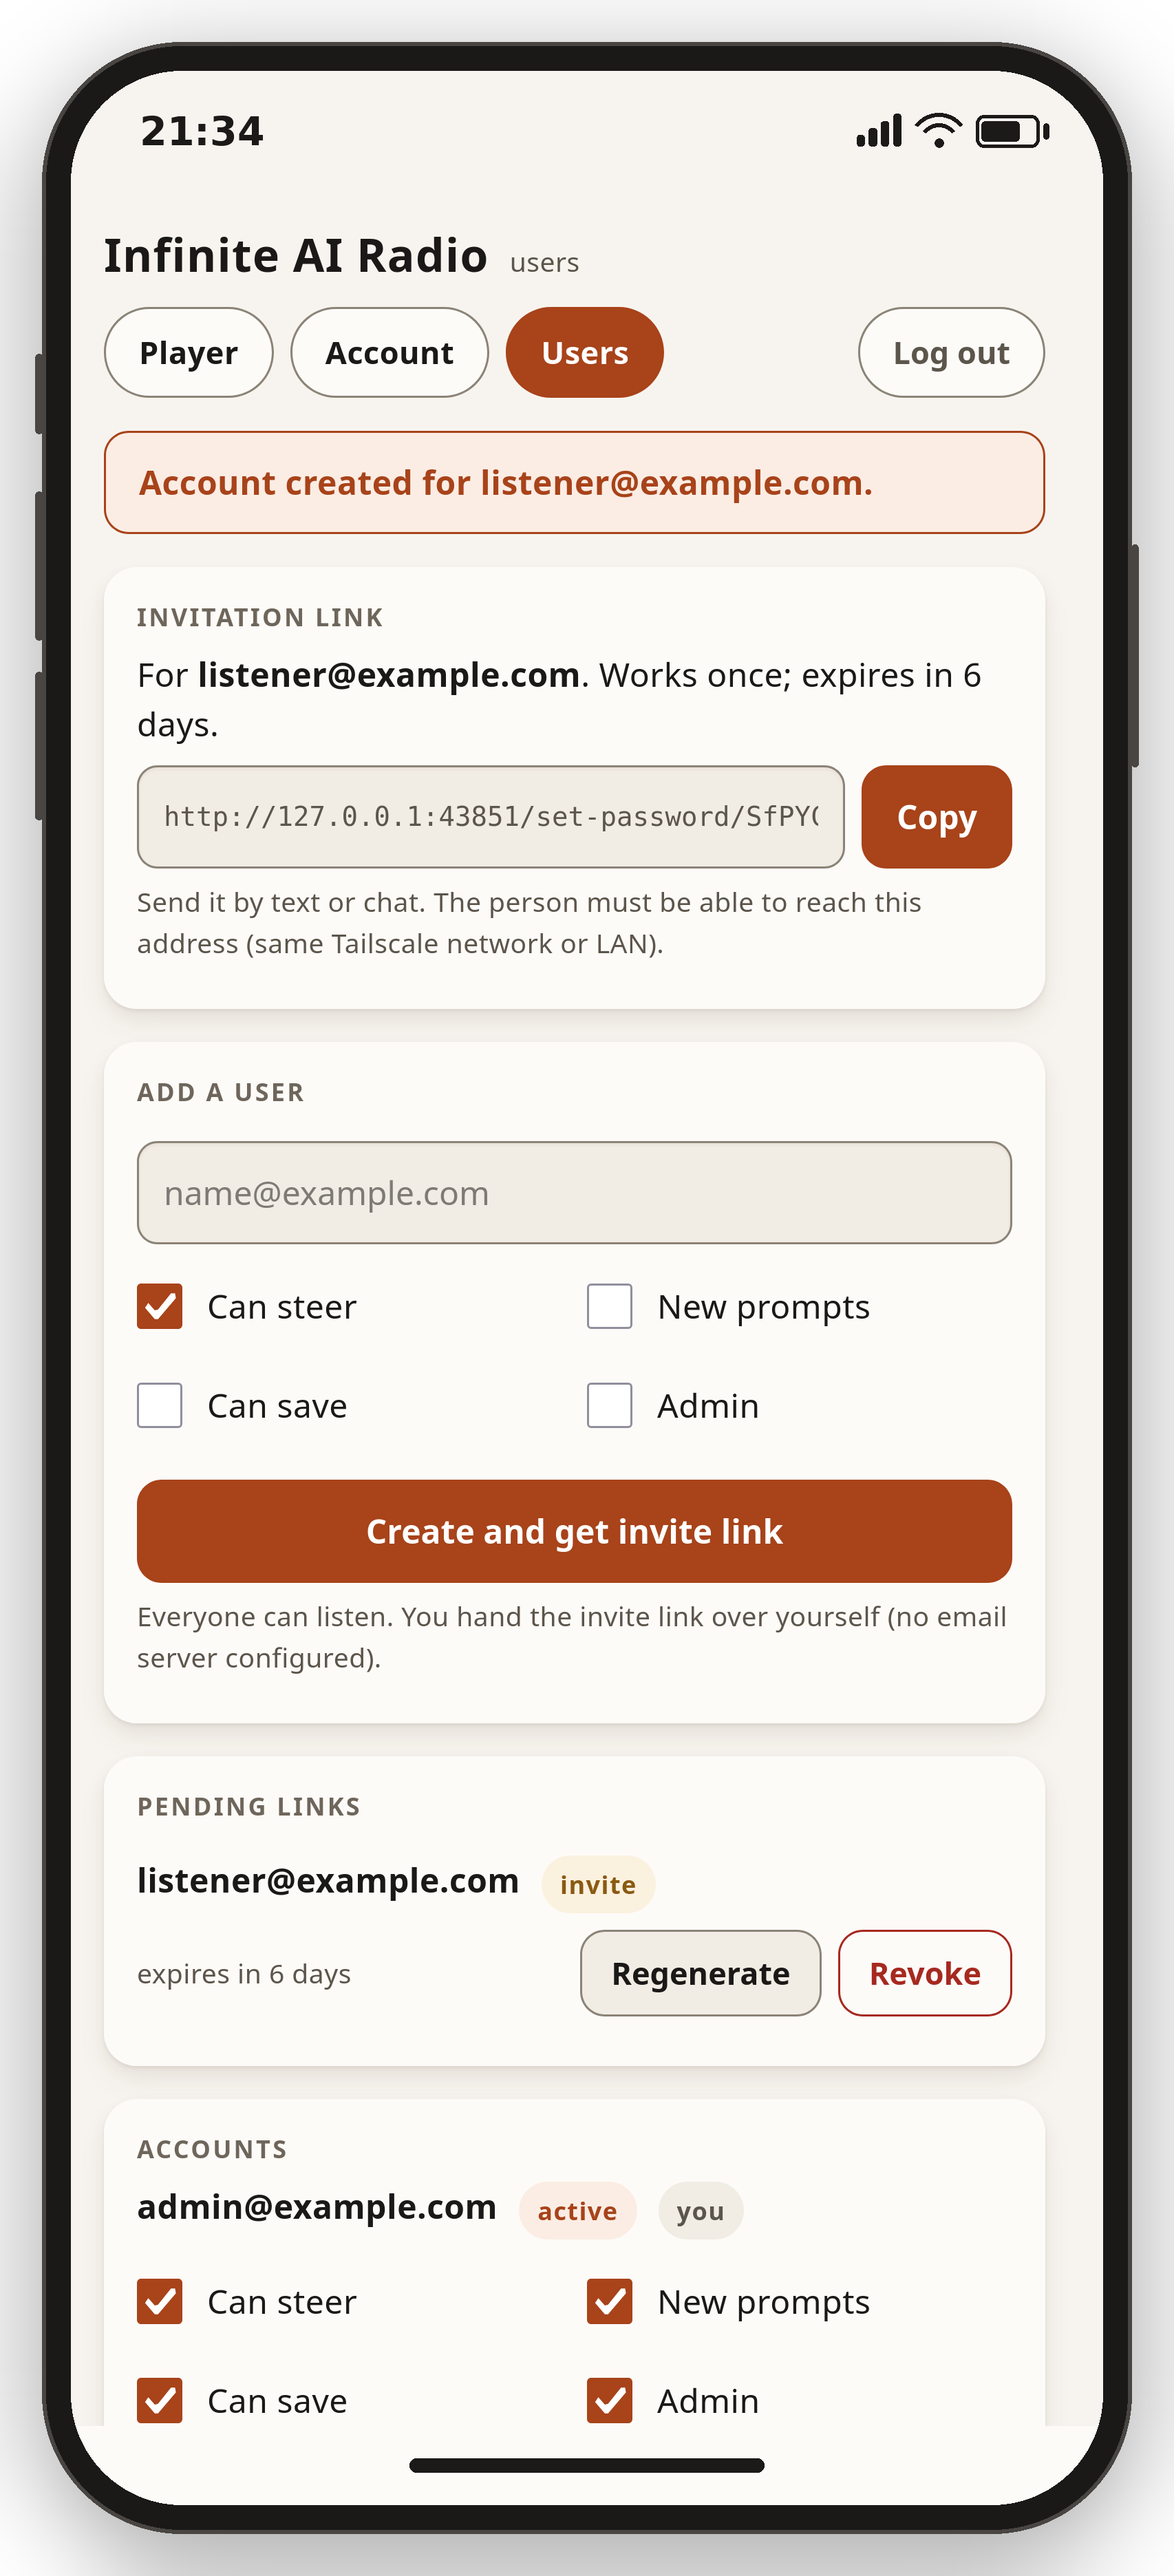
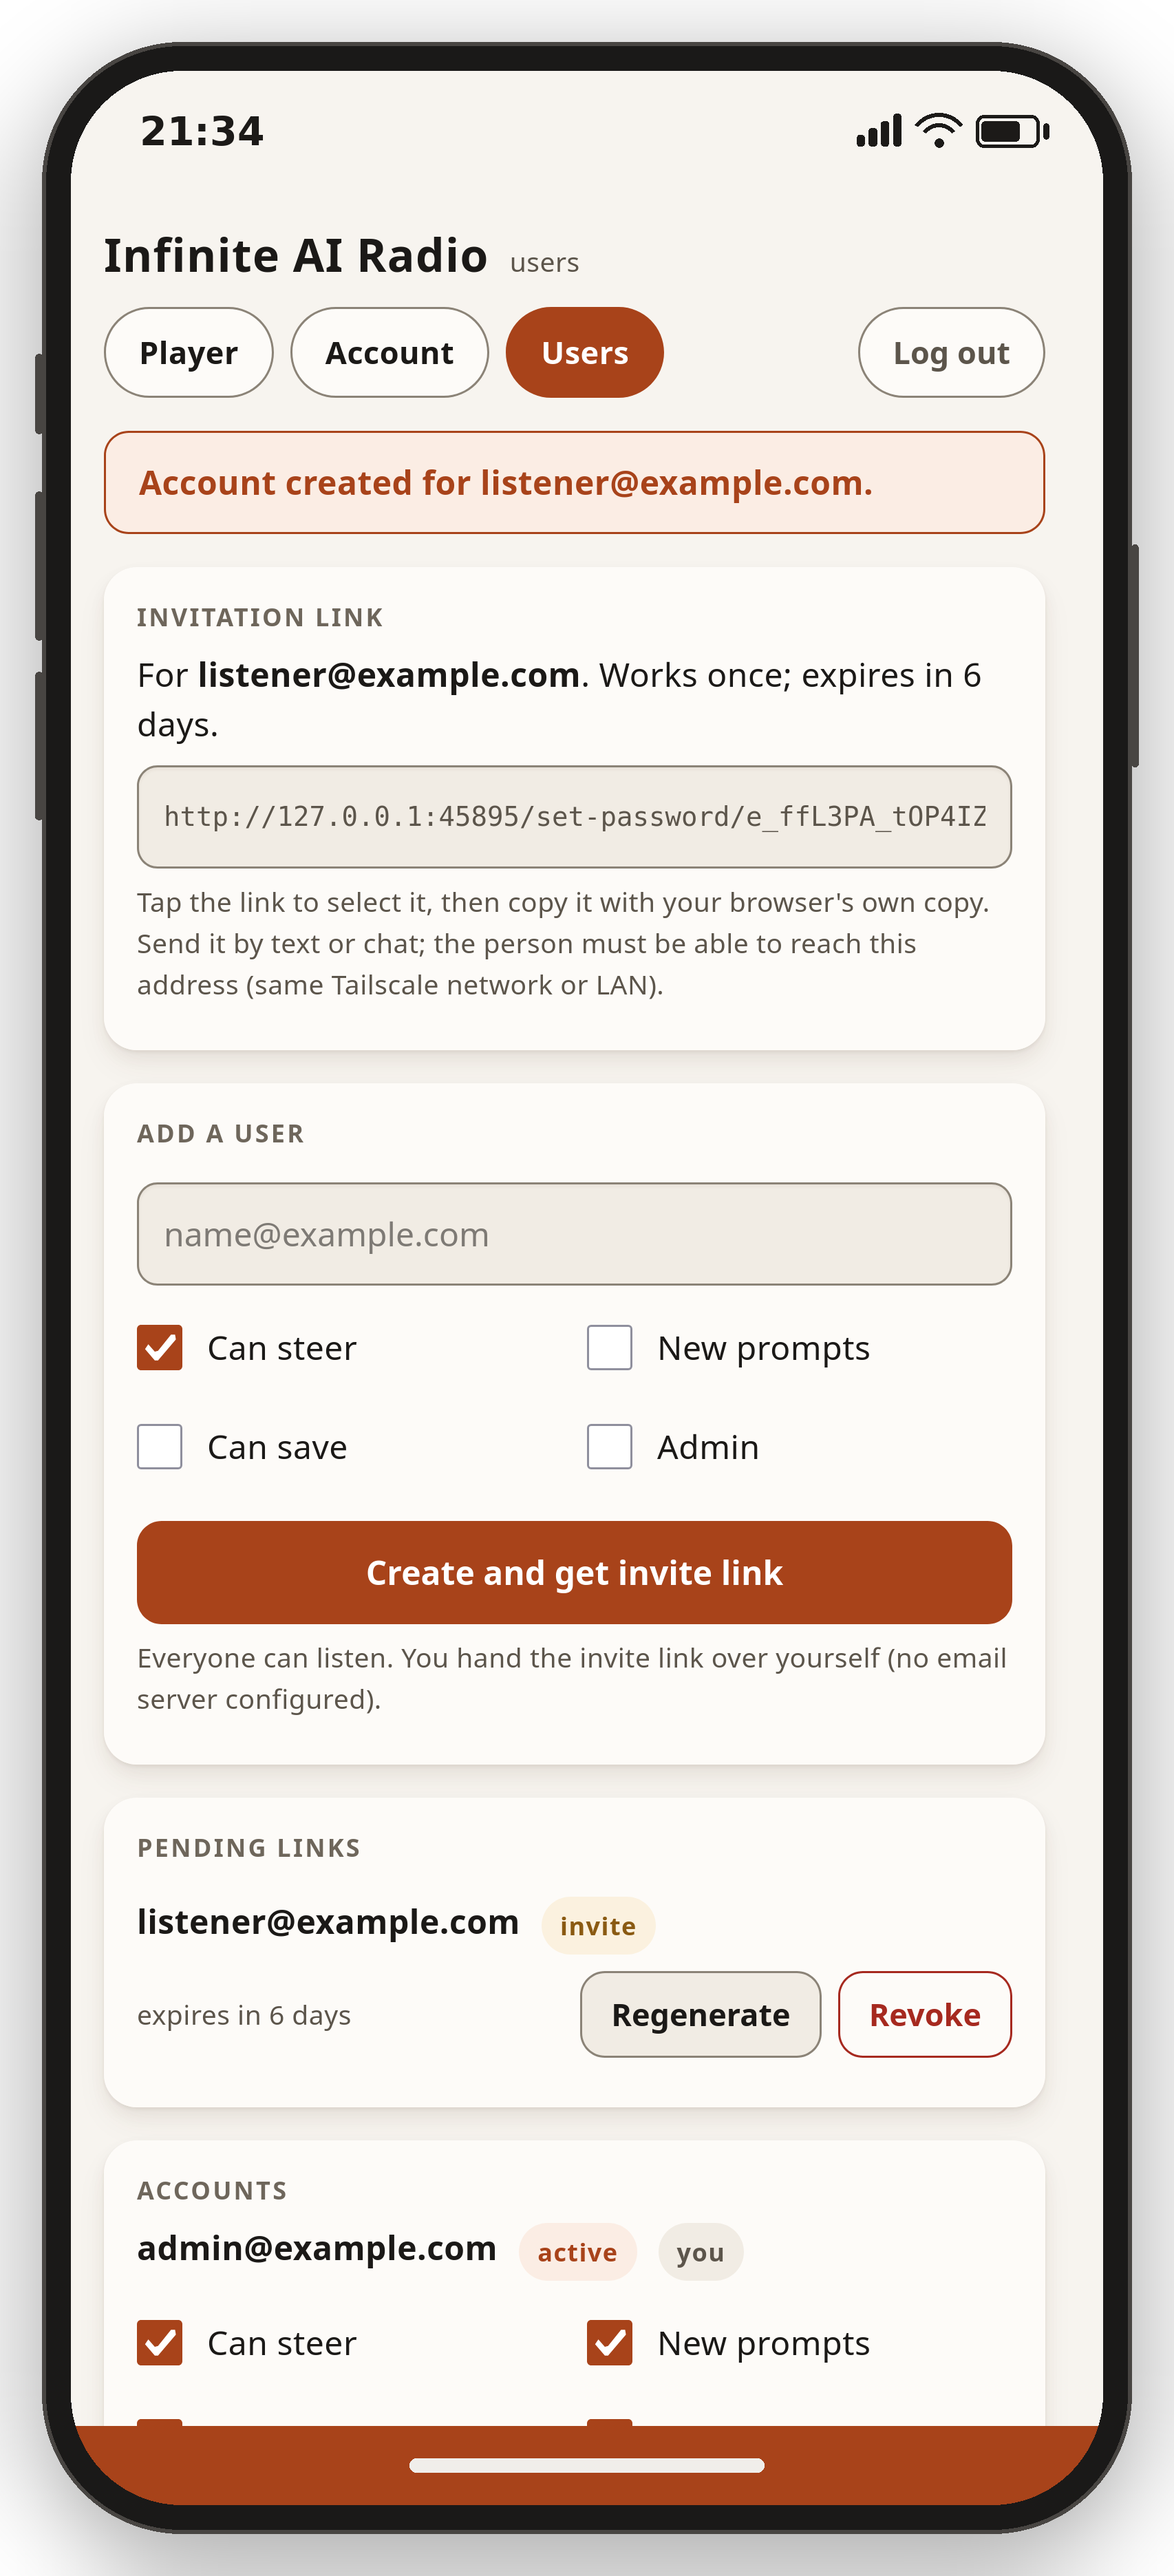
Nothing here touches the clipboard, and the beeps come between songs
The remote no longer writes to the clipboard anywhere: the lyrics Copy
button and the invitation-link Copy button are gone, along with the
last call to the clipboard API. Both were reaching for it on a page
whose listener was only trying to hear music, and a system "copied"
notification arriving every few seconds is worse than selecting the
words by hand - which is all either page asks for now. A test holds
the rule, so nothing quietly reaches for it again.

The trouble cue is six beeps rather than three, and it sounds every
time the radio repeats itself instead of at most once every few
minutes: a stuck radio should say so at every seam, not once and then
blend back into sounding fine. It also never interrupts a song any
more. On the stream, where the music cannot be paused for it, the cue
waits for the elapsed clock to run backwards - the looped track
starting over - rather than firing the moment the looping begins.

Between batches the buffer line stops advertising a batch that has
already finished. A cycle that rendered 11 of an intended 20 because
the writer ran out of words is not still working on the other nine,
and saying so beside a sleeping engine reads as a stall; the line now
says how much music is banked and what will start the next batch.

diff --git a/internal/remote/assets/app.js b/internal/remote/assets/app.js
@@ -78,13 +78,11 @@
   // otherwise, without being an alarm: the music ducks, the beeps
   // sound, the music comes back.
   var audioCues = store.get("iar.audiocues", true) !== false;
+  // Enough beeps to be unmistakable across a room, still soft.
+  var cueBeeps = 6;
   var cueUntil = 0;      // a cue is sounding; do not stack another
   var lastCueAt = 0;     // when the last one sounded
   var cueCtx = null;
-  // cueGap is the shortest time between cues: often enough to notice a
-  // stuck radio, rare enough not to become the noise it is warning
-  // about.
-  var cueGap = 3 * 60 * 1000;
   function cueTone(ctx, at, freq) {
     var osc = ctx.createOscillator();
     var gain = ctx.createGain();
@@ -102,25 +100,23 @@
   // playTroubleCue sounds the cue and returns roughly how long the
   // music should stay out of the way, in milliseconds. Returns 0 when
   // cues are off, unsupported, or one just sounded.
-  function playTroubleCue(minGapMs) {
+  function playTroubleCue() {
     if (!audioCues) return 0;
     var now = Date.now();
     if (now < cueUntil) return 0;
-    if (minGapMs && now - lastCueAt < minGapMs) return 0;
     var Ctx = window.AudioContext || window.webkitAudioContext;
     if (!Ctx) return 0;
     try {
       if (!cueCtx) cueCtx = new Ctx();
       if (cueCtx.state === "suspended") cueCtx.resume();
-      var lead = 0.6, t = cueCtx.currentTime + lead;
-      cueTone(cueCtx, t, 880);
-      cueTone(cueCtx, t + 0.24, 880);
-      cueTone(cueCtx, t + 0.48, 880);
+      var lead = 0.6, gap = 0.24, t = cueCtx.currentTime + lead;
+      for (var i = 0; i < cueBeeps; i++) cueTone(cueCtx, t + i * gap, 880);
     } catch (e) {
       return 0;
     }
     lastCueAt = now;
-    var total = 1900; // lead, three beeps, and a breath after
+    // Lead-in silence, the beeps, and a breath before the music.
+    var total = Math.round((0.6 + cueBeeps * 0.24 + 0.5) * 1000);
     cueUntil = now + total;
     return total;
   }
@@ -132,6 +128,17 @@
     try { el.volume = 0; } catch (e) { return; }
     setTimeout(function () { try { el.volume = was; } catch (e) {} }, ms);
   }
+
+  // clockSeconds parses the server's "m:ss" clock; -1 when it is not
+  // one.
+  function clockSeconds(text) {
+    var m = /^(\d+):(\d\d)$/.exec(String(text || ""));
+    if (!m) return -1;
+    return parseInt(m[1], 10) * 60 + parseInt(m[2], 10);
+  }
+  // loopClock is the last elapsed reading while the stream was
+  // repeating itself, so a restart can be told from a steady advance.
+  var loopClock = -1;
 
   // say announces a transition to a screen reader. The visible status
   // line updates every couple of seconds with an elapsed count, which
@@ -1102,7 +1109,7 @@
     // Nothing new has arrived and this device is about to repeat
     // itself: say so before it does, in the gap between the tracks.
     if (pf.wrapped) {
-      var ms = playTroubleCue(cueGap);
+      var ms = playTroubleCue();
       if (ms) {
         pf.cur = 1 - pf.cur;
         setTimeout(function () { pfPlay(nextId); }, ms);
@@ -1355,7 +1362,7 @@
     audioCues = $("audiocues").checked;
     store.set("iar.audiocues", audioCues);
     // Sound one immediately so the listener knows what to listen for.
-    if (audioCues) playTroubleCue(0);
+    if (audioCues) playTroubleCue();
   });
   $("carsave").checked = carSave;
   $("carsave").addEventListener("change", function () {
@@ -1532,39 +1539,11 @@
       "names=" + encodeURIComponent($("langnames").value), "saving languages…");
   });
 
-  // The page is served over plain HTTP on a home network, where the
-  // clipboard API is unavailable, so a hidden textarea is the fallback
-  // rather than an afterthought.
-  function copyText(text) {
-    if (navigator.clipboard && navigator.clipboard.writeText) {
-      return navigator.clipboard.writeText(text);
-    }
-    return new Promise(function (resolve, reject) {
-      var ta = document.createElement("textarea");
-      ta.value = text;
-      ta.setAttribute("readonly", "");
-      ta.style.position = "fixed";
-      ta.style.opacity = "0";
-      document.body.appendChild(ta);
-      ta.select();
-      var ok = false;
-      try { ok = document.execCommand("copy"); } catch (e) { ok = false; }
-      document.body.removeChild(ta);
-      ok ? resolve() : reject(new Error("copy refused"));
-    });
-  }
-  $("lyrcopy").addEventListener("click", function () {
-    if (!lyricsText) {
-      setStatus($("lyrcopystatus"), "nothing to copy yet", "err");
-      return;
-    }
-    buzz();
-    copyText(lyricsText).then(function () {
-      setStatus($("lyrcopystatus"), "copied", "ok");
-    })["catch"](function () {
-      setStatus($("lyrcopystatus"), "could not copy - select the words and copy by hand", "err");
-    });
-  });
+  // Nothing in this page writes to the clipboard. The words are plain
+  // selectable text: press-and-hold selects them, and the phone's own
+  // copy does the rest. A page that reaches for the clipboard itself
+  // is a page that can pester a listener with system "copied"
+  // notifications while they are only trying to listen to music.
 
   // ---- lyric writer ------------------------------------------------
   // A small select in the steering card switches which generator pens
@@ -1873,11 +1852,17 @@
         ? "The radio itself is looping its playing track; this device plays its own bank."
         : "Looping this track until the loop is turned off.";
       else if (s.looping) phaseText = "Replaying the last track while the next one generates.";
-      // The stream cannot be paused for a cue, so the music ducks
-      // around it instead. Repeated on a long interval: a radio stuck
-      // for an hour should say so more than once.
-      if (s.looping && !pf.active && wantStream) {
-        duckThrough(audio, playTroubleCue(cueGap));
+      // Cue the stream only at the seam, never over a playing song:
+      // the looped track starting again is the moment worth marking,
+      // and the elapsed clock running backwards is that moment.
+      var at = clockSeconds(s.elapsed);
+      if (s.looping && !pf.active && wantStream && at >= 0) {
+        if (loopClock >= 0 && at < loopClock) {
+          duckThrough(audio, playTroubleCue());
+        }
+        loopClock = at;
+      } else {
+        loopClock = -1;
       }
       setText($("phase"), phaseText);
       paintLoop(pf.active ? pf.loop : !!s.loop_on);

diff --git a/internal/remote/assets/users.html b/internal/remote/assets/users.html
@@ -24,9 +24,8 @@
   {{if .Flash.EmailError}}<p class="hint">Email could not be sent ({{.Flash.EmailError}}); share the link yourself.</p>{{end}}
   <div class="linkbox">
     <input id="link" type="text" readonly value="{{.Flash.Link}}" aria-label="Link">
-    <button id="copy" class="action primary" type="button">Copy</button>
   </div>
-  <p class="hint">Send it by text or chat. The person must be able to reach this address (same Tailscale network or LAN).</p>
+  <p class="hint">Tap the link to select it, then copy it with your browser's own copy. Send it by text or chat; the person must be able to reach this address (same Tailscale network or LAN).</p>
 </section>
 {{end}}
 
@@ -87,24 +86,5 @@
   {{end}}
 </section>
 
-<script>
-(function () {
-  "use strict";
-  var copy = document.getElementById("copy");
-  if (!copy) return;
-  copy.addEventListener("click", function () {
-    var input = document.getElementById("link");
-    input.select();
-    input.setSelectionRange(0, input.value.length);
-    var done = function () { copy.textContent = "Copied"; setTimeout(function () { copy.textContent = "Copy"; }, 1500); };
-    if (navigator.clipboard && navigator.clipboard.writeText) {
-      navigator.clipboard.writeText(input.value).then(done, function () { document.execCommand("copy"); done(); });
-    } else {
-      document.execCommand("copy");
-      done();
-    }
-  });
-})();
-</script>
 </body>
 </html>

diff --git a/internal/remote/assets/player.html b/internal/remote/assets/player.html
@@ -77,10 +77,6 @@
     <details class="group" id="lyricscard" open>
       <summary class="grouphead tap"><span class="grouplabel">Lyrics</span><span class="chev" aria-hidden="true"></span></summary>
       <div class="pad">
-        <div class="lyrhead">
-          <button class="action tap" id="lyrcopy" type="button">Copy</button>
-          <span id="lyrcopystatus" class="cardstatus"></span>
-        </div>
         <p id="lyrics" class="lyrics"><span class="empty">nothing sung yet</span></p>
       </div>
     </details>

diff --git a/internal/remote/remote_test.go b/internal/remote/remote_test.go
@@ -1004,7 +1004,9 @@ func TestInviteFlowWithoutEmail(t *testing.T) {
 		t.Fatalf("create = %d %s", resp.StatusCode, body)
 	}
 	_, page := admin.get("/users")
-	for _, want := range []string{"Account created for jane@example.com", "Invitation link", `id="copy"`, "jane@example.com", "invited", "expires in"} {
+	// The link is selectable text, not a copy button: nothing in the
+	// remote writes to the clipboard.
+	for _, want := range []string{"Account created for jane@example.com", "Invitation link", `id="link"`, "jane@example.com", "invited", "expires in"} {
 		if !strings.Contains(page, want) {
 			t.Fatalf("users page missing %q:\n%s", want, page)
 		}
@@ -1884,5 +1886,36 @@ func TestReadySummaryReportsTheDiskBuffer(t *testing.T) {
 	empty := player.Status{Phased: true, Queued: 0}
 	if got := readySummary(empty); got != "0 ready" {
 		t.Errorf("empty summary = %q, want %q", got, "0 ready")
+	}
+}
+
+// Nothing the remote serves may write to the clipboard. A page that
+// reaches for it can pester a listener with system "copied"
+// notifications while they are only trying to hear music, and the
+// words and the invitation link are both plain selectable text.
+func TestNoPageWritesToTheClipboard(t *testing.T) {
+	h := newHarness(t, nil)
+	admin := h.admin()
+	admin.postForm("/users/create", url.Values{"email": {"jane@example.com"}})
+	pages := map[string]string{}
+	for _, path := range []string{"/", "/users", "/account"} {
+		_, body := admin.get(path)
+		pages[path] = body
+	}
+	_, app := admin.get("/app.js")
+	pages["/app.js"] = app
+	for path, body := range pages {
+		for _, banned := range []string{"navigator.clipboard", "execCommand(\"copy\")", "execCommand('copy')"} {
+			// Comments may name the clipboard; code may not call it.
+			for _, line := range strings.Split(body, "\n") {
+				trimmed := strings.TrimSpace(line)
+				if strings.HasPrefix(trimmed, "//") || strings.HasPrefix(trimmed, "*") {
+					continue
+				}
+				if strings.Contains(line, banned) {
+					t.Errorf("%s reaches for the clipboard: %q", path, strings.TrimSpace(line))
+				}
+			}
+		}
 	}
 }

diff --git a/internal/ui/buffer_test.go b/internal/ui/buffer_test.go
@@ -119,3 +119,43 @@ func TestGenIdleText(t *testing.T) {
 		}
 	}
 }
+
+// A cycle that stops early - the writer ran out of words, so the batch
+// rendered 11 of an intended 20 and handed the card back - is finished
+// business, not a stall. Beside an idle engine the batch's own count
+// reads as one, so the line says what is banked and what starts the
+// next batch instead.
+func TestBufferLineBetweenBatches(t *testing.T) {
+	st := player.Status{
+		Phased:           true,
+		RampBatch:        20,
+		BatchRendered:    11,
+		BufferedTracks:   17,
+		BufferedSeconds:  51 * 60,
+		BufferLowSeconds: 45 * 60,
+	}
+
+	// Idle: the batch count is gone from the words.
+	_, _, text, ok := bufferGauge(st)
+	if !ok {
+		t.Fatal("no gauge for an idle phased buffer")
+	}
+	if strings.Contains(text, "of 20") {
+		t.Errorf("an idle engine still advertises an unfinished batch: %q", text)
+	}
+	for _, want := range []string{"17 songs to play", "51m", "next batch when 45m left"} {
+		if !strings.Contains(text, want) {
+			t.Errorf("idle line %q is missing %q", text, want)
+		}
+	}
+
+	// Generating: the batch is live again and its progress is the news.
+	st.Generating = true
+	_, _, text, ok = bufferGauge(st)
+	if !ok {
+		t.Fatal("no gauge while generating")
+	}
+	if !strings.Contains(text, "11 of 20 songs rendered") || !strings.Contains(text, "17 to play") {
+		t.Errorf("working line reads %q", text)
+	}
+}

diff --git a/internal/ui/buffer.go b/internal/ui/buffer.go
@@ -79,6 +79,23 @@ func bufferGauge(st player.Status) (frac, consumed float64, text string, ok bool
 	if st.RampBatch > 0 {
 		toPlay := st.BufferedTracks + st.Queued
 		rendered := st.BatchRendered
+		// Between batches the batch's own count is finished business:
+		// a cycle that stopped at 11 of 20 because the writer ran out
+		// of words is not still working on the other nine, and saying
+		// "11 of 20 rendered" beside an idle engine reads as a stall.
+		// What matters then is how much music is banked and what will
+		// start the next batch.
+		if !st.Generating {
+			text = fmt.Sprintf("%d songs to play (%s)", toPlay, fmtSpan(st.BufferedSeconds))
+			if st.BufferLowSeconds > 0 {
+				text += fmt.Sprintf(" · next batch when %s left", fmtSpan(st.BufferLowSeconds))
+			}
+			frac = float64(rendered) / float64(st.RampBatch)
+			if eaten := rendered - toPlay; eaten > 0 {
+				consumed = float64(eaten) / float64(st.RampBatch)
+			}
+			return frac, consumed, text, true
+		}
 		text = fmt.Sprintf("%d of %d songs rendered · %d to play",
 			rendered, st.RampBatch, toPlay)
 		if st.PlannedTracks > 0 {
